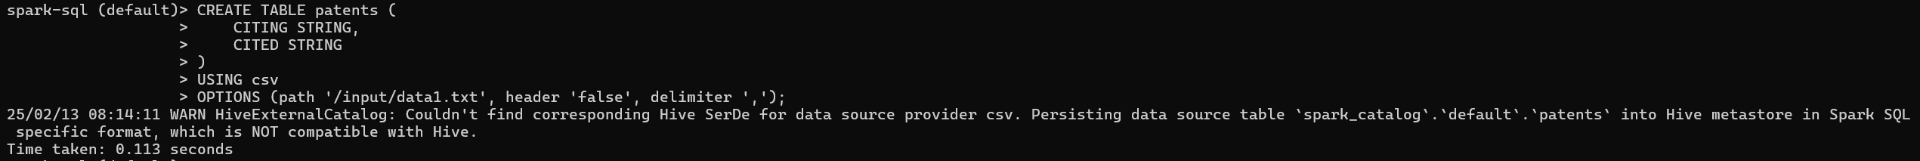
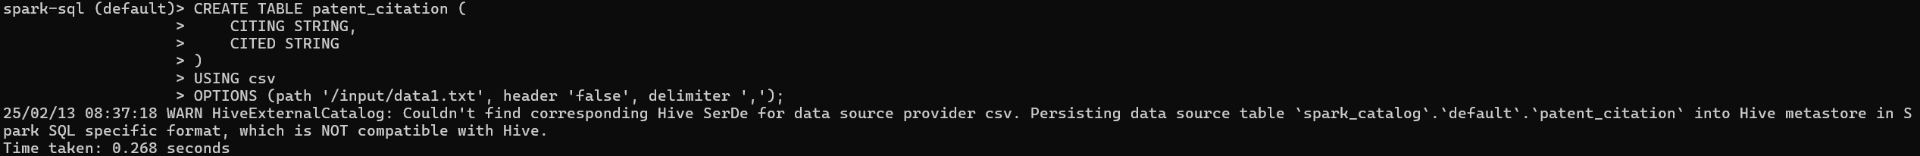
spark-sql

diff --git a/sparksql.html b/sparksql.html
@@ -254,7 +254,7 @@ hdfs dfs -put data2.txt /input
                 <ul>
                     <li>建立表格并导入文件数据</li>
                 </ul>
-                <pre><code>CREATE TABLE patents (
+                <pre><code>CREATE TABLE patent_citation (
     CITING STRING,
     CITED STRING
 )
@@ -268,12 +268,11 @@ OPTIONS (path '/input/data1.txt', header 'false', delimiter ',');
                 </ul>
                 <pre><code>SELECT 
     cited, 
-    CONCAT_WS(',', COLLECT_LIST(CITING)) AS citing_agg
+    CONCAT_WS(',', COLLECT_LIST(CITING)) AS citing_list
 FROM 
-    patents
+    patent_citation
 GROUP BY 
-    cited
-LIMIT 10;
+    cited limit 10;
 </code></pre>
 <img src="static/assets/img/sparksql/query1.png" alt="query1" style="width: 100%; height: auto;"/>
                 <ul>
@@ -281,12 +280,11 @@ LIMIT 10;
                 </ul>
                 <pre><code>SELECT
     cited,
-    COUNT(*) AS citation_count
+    COUNT(*) AS citing_count
 FROM
-    patents
+    patent_citation
 GROUP BY
-    cited
-LIMIT 10;
+    cited limit 10;
 </code></pre>
 <img src="static/assets/img/sparksql/query2.png" alt="query2" style="width: 100%; height: auto;"/>
                 <ul>
@@ -300,7 +298,7 @@ FROM (
         cited, 
         COUNT(*) AS ct
     FROM 
-        patents
+        patent_citation
     GROUP BY 
         cited
 ) AS cite_count
@@ -314,7 +312,7 @@ ORDER BY ct;
                 <ul>
                     <li>先导入表</li>
                 </ul>
-                <pre><code>CREATE TABLE patent_details (
+                <pre><code>CREATE TABLE patent_metadata (
     PATENT STRING,
     GYEAR INT,
     GDATE INT,
@@ -363,10 +361,10 @@ SELECT
     COUNTRY, 
     COUNT(*) AS patent_count
 FROM 
-    patent_details
+    patent_metadata
 GROUP BY 
     GYEAR, 
-    COUNTRY;
+    COUNTRY limit 10;
 </code></pre>
 <img src="static/assets/img/sparksql/query4.png" alt="query4" style="width: 100%; height: auto;"/>
 <br><br>
@@ -388,10 +386,10 @@ GROUP BY
 <br><br>
 <img src="static/assets/img/sparksql/show2.png" alt="show2" style="width: 100%; height: auto;"/>
                 <ul>
-                    <li>接着我们回到命令行，先使用ctrl+c退出spark-sql，回到nodemanager-0所在的pod中，我们可以查看查询结果，这里的part-00000-41509313-7c13-4bf7-889c-edbb12e0ca0a-c000.csv需要替换为实际生成的文件</li>
+                    <li>接着我们回到命令行，先使用ctrl+c退出spark-sql，回到nodemanager-0所在的pod中，我们可以查看查询结果，这里的part-00000-311c6b33-5115-4410-bf5f-0b78e333b448-c000.csv需要替换为实际生成的文件</li>
                 </ul>
 
-                <pre><code>hdfs dfs -cat /output/patent_count_by_year_country/part-00000-41509313-7c13-4bf7-889c-edbb12e0ca0a-c000.csv
+                <pre><code>hdfs dfs -cat /output/patent_count_by_year_country/part-00000-311c6b33-5115-4410-bf5f-0b78e333b448-c000.csv
 </code></pre>
 
 <img src="static/assets/img/sparksql/show3.png" alt="show3" style="width: 100%; height: auto;"/>
